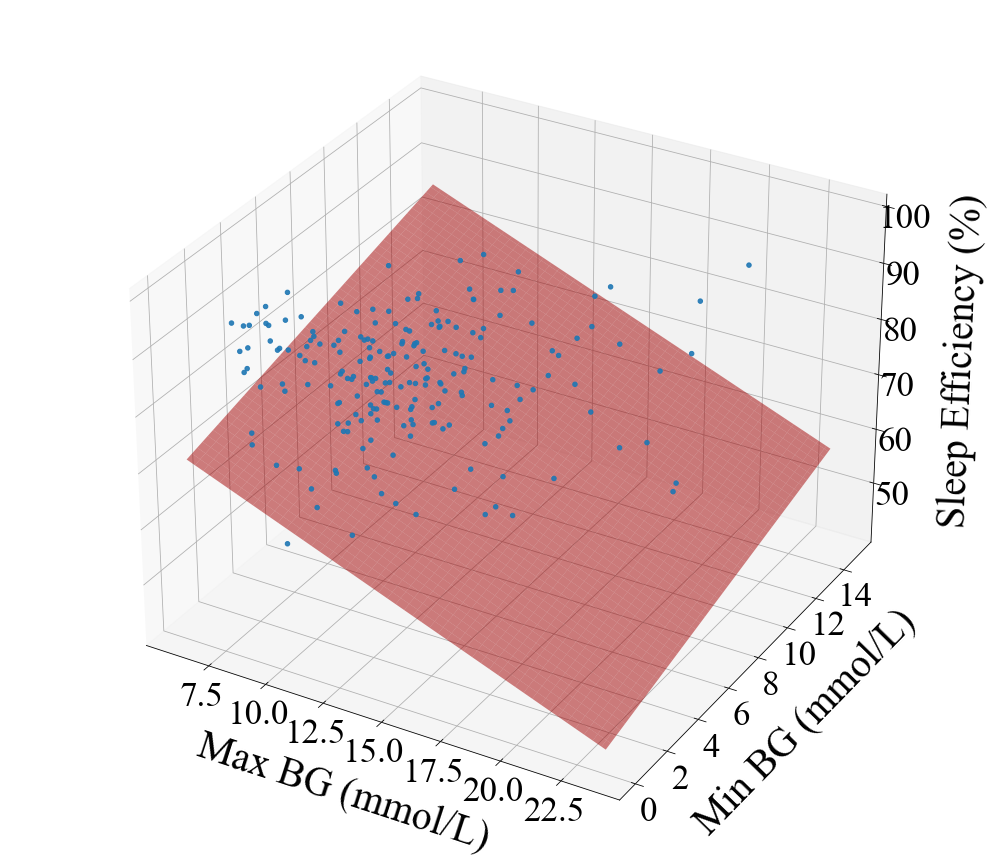
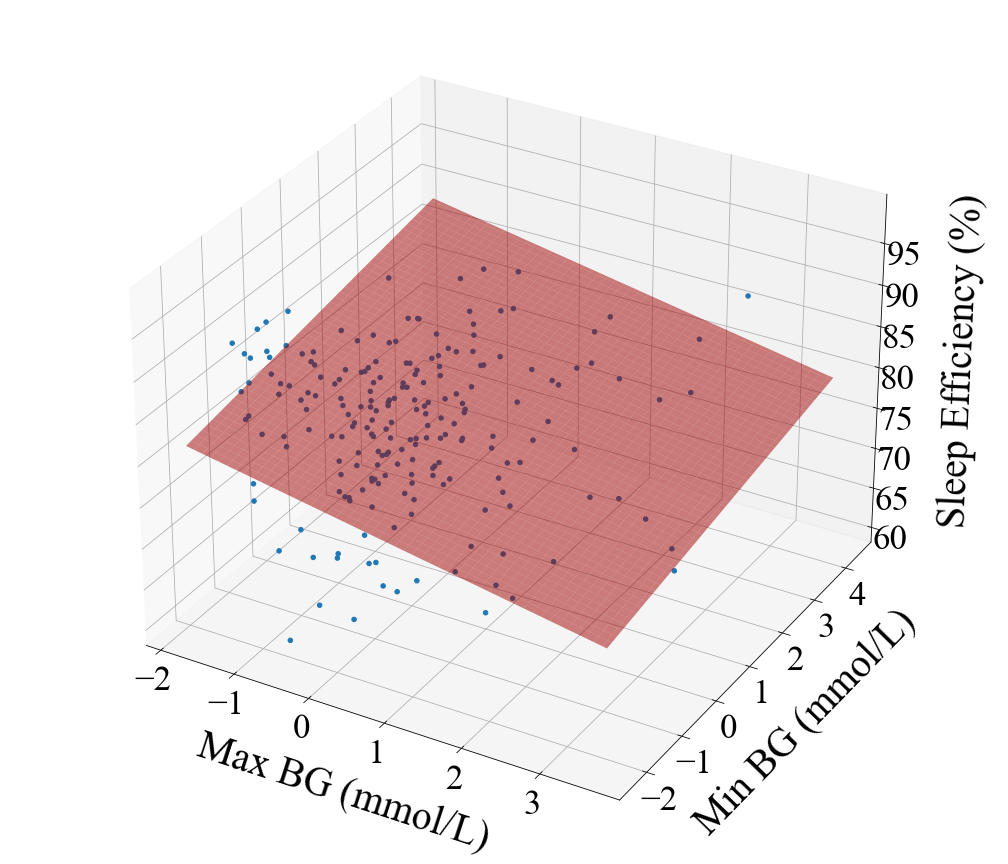
Standarized data and updated 3d plot

diff --git a/PlotSleepEfficiency.py b/PlotSleepEfficiency.py
@@ -134,22 +134,43 @@ plt.savefig(f"H:\GitHub\Bachelor\Plots\Sleep Efficiency against Mean.png", forma
 
 # Standardization!!!
 
+# # Extracting data
+# max_bg = feature_df['max']
+# min_bg = feature_df['min']
+# sleep_efficiency = feature_df['Efficiency']
+
+# # Creating a 3D plot
+# fig = plt.figure(figsize=(14, 12))
+# ax = fig.add_subplot(111, projection='3d')
+
+# # Scatter plot points
+# ax.scatter(max_bg, min_bg, sleep_efficiency, marker='o', alpha=0.9)
+
+
+
+from sklearn.preprocessing import StandardScaler
+
 # Extracting data
 max_bg = feature_df['max']
 min_bg = feature_df['min']
 sleep_efficiency = feature_df['Efficiency']
 
+# Standardizing 'min' and 'max' BG values
+scaler = StandardScaler()
+max_bg_standardized = scaler.fit_transform(max_bg.values.reshape(-1, 1))
+min_bg_standardized = scaler.fit_transform(min_bg.values.reshape(-1, 1))
+
 # Creating a 3D plot
 fig = plt.figure(figsize=(14, 12))
 ax = fig.add_subplot(111, projection='3d')
 
-# Scatter plot points
-ax.scatter(max_bg, min_bg, sleep_efficiency, marker='o', alpha=0.9)
+# Scatter plot points with standardized values
+ax.scatter(max_bg_standardized, min_bg_standardized, sleep_efficiency, marker='o', alpha=1)
 
 # Prediction plane equation parameters
 # Creating a meshgrid for the prediction plane
-max_bg_range = np.linspace(min(max_bg), max(max_bg), 100)
-min_bg_range = np.linspace(min(min_bg), max(min_bg), 100)
+max_bg_range = np.linspace(min(max_bg_standardized), max(max_bg_standardized), 100)
+min_bg_range = np.linspace(min(min_bg_standardized), max(min_bg_standardized), 100)
 X, Y = np.meshgrid(max_bg_range, min_bg_range)
 Z = 81.05 - 1.62 * X + 0.99 * Y  # Prediction plane equation from R
 

diff --git a/ShowcaseScript.py b/ShowcaseScript.py
@@ -107,10 +107,10 @@ acti_interval1 = extract_one_night(in_bed, out_bed, acti_data)
 # plot_acti(acti_interval1)
 
 plt.figure()
-plt.plot(acti_interval1['DateTime'], acti_interval1['Magnitude'], '-') 
+plt.plot(acti_interval1['DateTime'], acti_interval1['Magnitude'], '-', label='Activity') 
 plt.title("Actigraph data for one night", fontsize=36, family='Times New Roman', pad=20)
 plt.xlabel("Time (hour)", fontsize=36, family='Times New Roman', labelpad=20)
-plt.ylabel("Counts", fontsize=36, family='Times New Roman', labelpad=20)
+plt.ylabel("Magnitude", fontsize=36, family='Times New Roman', labelpad=20)
 plt.xticks(fontsize=32, family='Times New Roman')
 plt.yticks(fontsize=32, family='Times New Roman')
 
